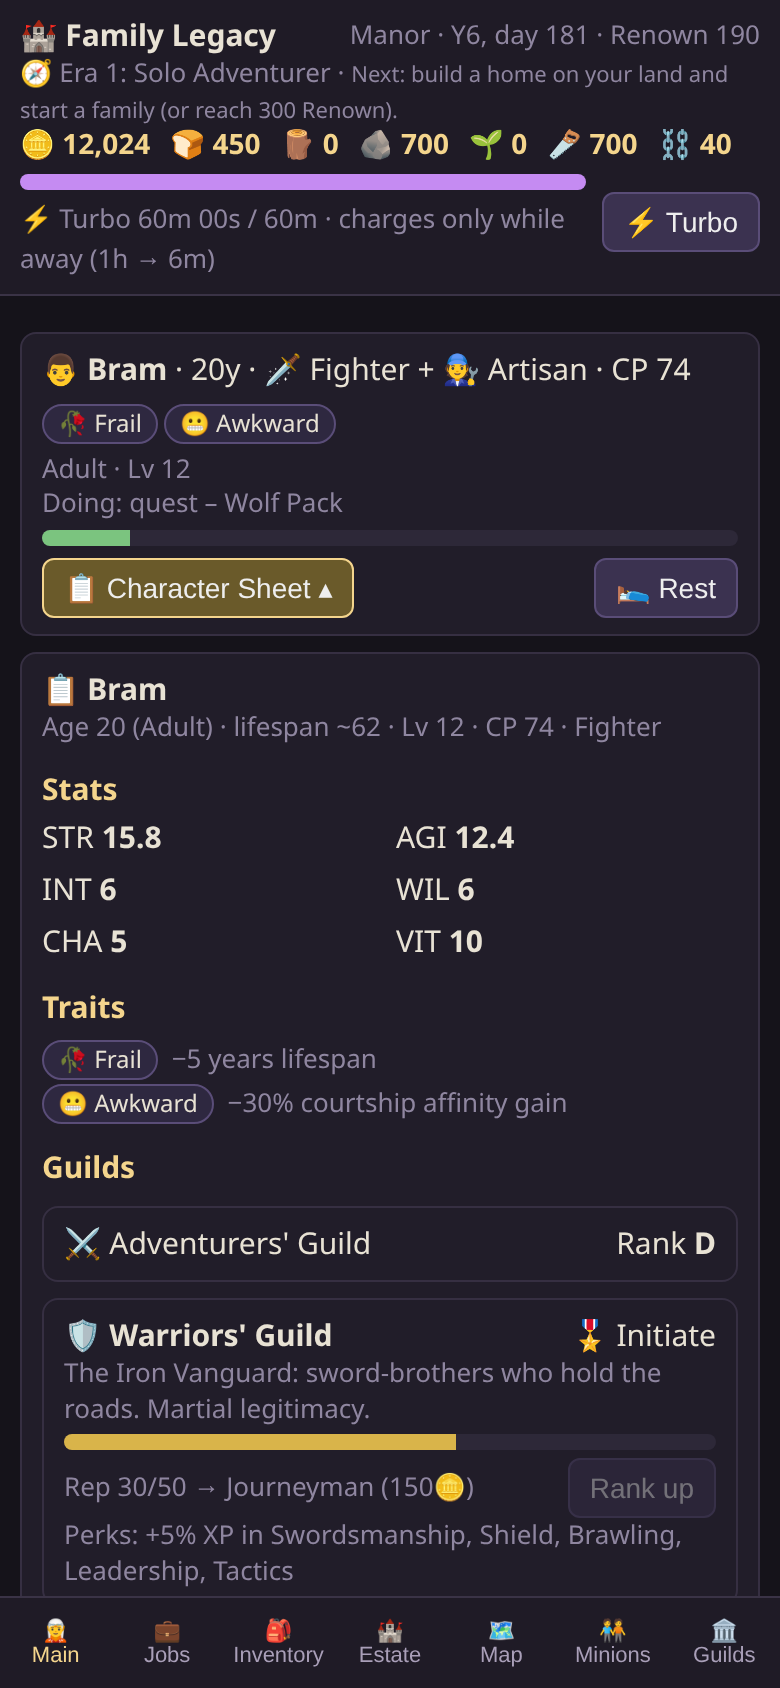
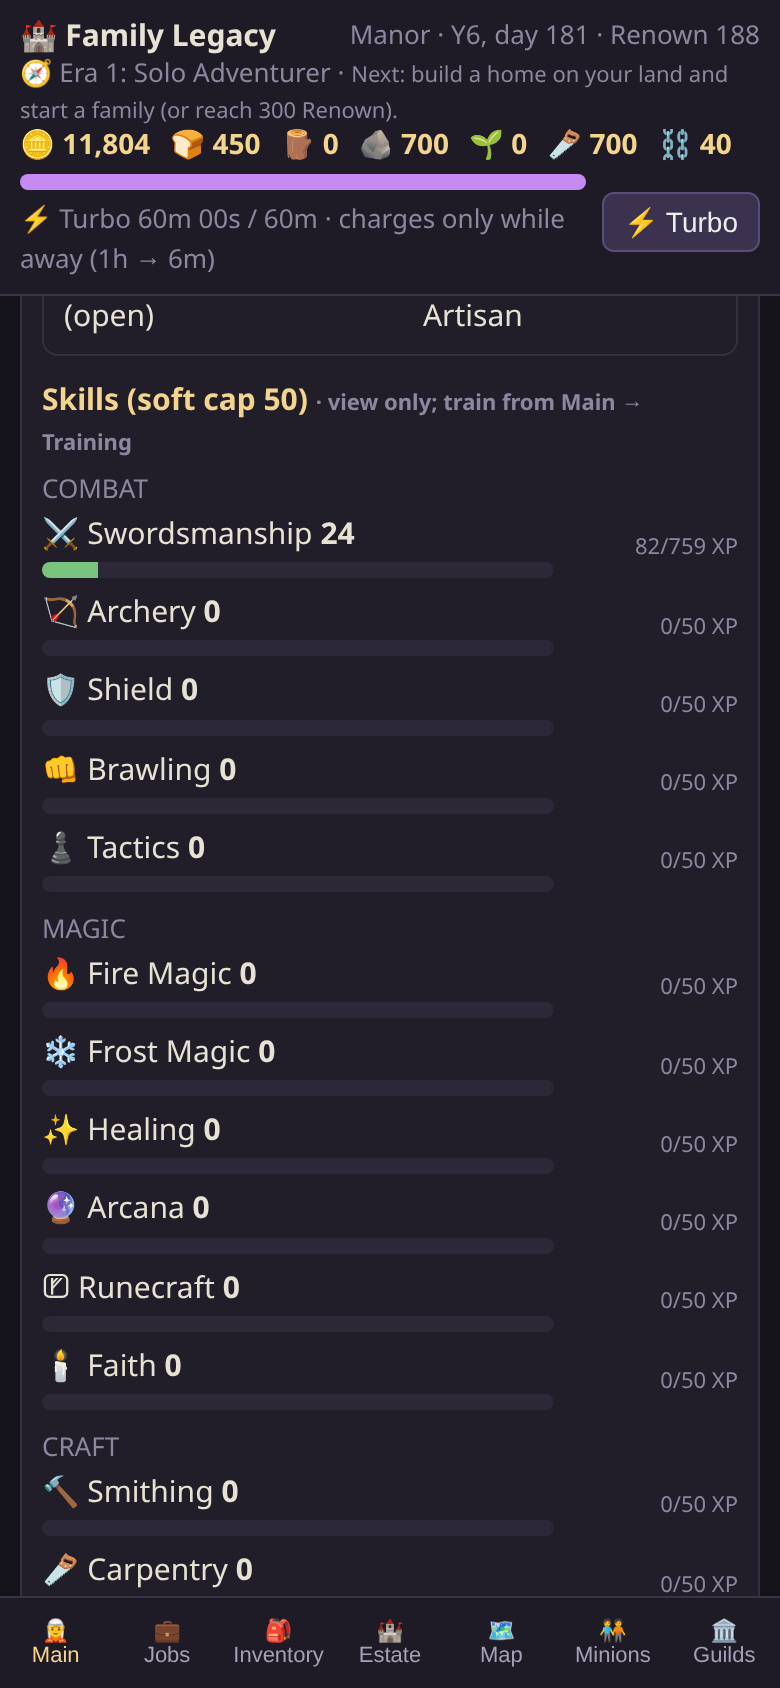
Update Family Legacy with training and tiered activities.
Replace the static game with the latest build, including the view-only character sheet, the Training section, and tiered activities, and keep the existing Pages workflow.

diff --git a/js/main.js b/js/main.js
@@ -28,7 +28,7 @@ function hero(){ const m=E.active(s); if(!m) return ''; const a=m.action;
  ${a&&a.type==='quest'?`<div class="bar"><i style="width:${a.progress/D.quests.find(q=>q.id===a.target).days*100}%"></i></div>`:''}
  <div class="row" style="margin-top:6px"><button class="b ${sheetOpen?'sel':''}" data-a="sheet">📋 Character Sheet ${sheetOpen?'▴':'▾'}</button><button class="b" data-a="rest">🛌 Rest</button></div></div>`;
  if(sheetOpen) h+=sheet(m);
- h+=activities(m);
+ h+=trainingv(m)+activities(m);
  const evo=D.classes.filter(c=>(c.from===m.cls&&!c.profession)||(m.prof&&c.from===m.prof&&c.profession));
  if(evo.length) h+=`<h3>Evolution</h3>`+evo.map(c=>`<div class="card row"><span>${c.icon} ${c.name}<br><span class="muted">${Object.entries(c.req).map(([k,v])=>`${sk(k).name} ${m.skills[k].lvl}/${v}`).join(' · ')}${c.guild?` · ${E.guildDef(c.guild).icon} ${E.rankName(c.guildRank)} of ${E.guildDef(c.guild).name}`:''}${c.advRank!=null?` · Adventurers' Rank ${E.advRankName(c.advRank)}`:''}${c.crafterRank!=null?` · Crafters' ${E.rankName(c.crafterRank)}`:''}${c.profession?' · profession':''} · ${c.cost}🪙</span></span><button class="b" data-a="evolve" data-v="${c.id}" ${E.canEvolve(s,m,c)?'':'disabled'}>Evolve</button></div>`).join('');
  return h; }
@@ -36,15 +36,18 @@ function sheet(m){ const a=m.action; let h=`<div class="card"><b>📋 ${m.name}<
  <h3>Stats</h3><div class="grid">${E.STATS.map(k=>`<span>${k} <b>${E.statVal(m,k)}</b></span>`).join('')}</div>
  <h3>Traits</h3>${m.traits.map(t=>{const d=E.traitDef(t);return `<div><span class="tb">${d.icon} ${d.name}</span> <span class="muted">${d.desc}</span></div>`}).join('')}
  <h3>Guilds</h3>${guildCard(m)}
- <h3>Skills & Training (soft cap ${E.softCap(m)})</h3>`;
+ <h3>Skills (soft cap ${E.softCap(m)}) <span class="muted" style="font-size:11px">· view only; train from Main → Training</span></h3>`;
  for(const fam of [...new Set(D.skills.map(x=>x.family))]){ h+=`<div class="muted" style="margin-top:6px">${fam.toUpperCase()}</div>`;
   for(const x of D.skills.filter(y=>y.family===fam)){ const v=m.skills[x.id]; const on=a&&a.type==='train'&&a.target===x.id; const iss=E.trainIssue(m,x.id,s);
-   h+=`<div class="row" style="margin:3px 0"><span style="flex:1">${x.icon} ${x.name} <b>${v.lvl}</b><div class="bar"><i style="width:${v.xp/E.xpNeed(v.lvl)*100}%"></i></div></span><button class="b ${on?'sel':''}" data-a="train" data-v="${x.id}" ${iss?'disabled':''}>${iss?LOCK[iss]:'Train'}</button></div>`; } }
+   h+=`<div class="row" style="margin:3px 0"><span style="flex:1">${x.icon} ${x.name} <b>${v.lvl}</b><div class="bar"><i style="width:${v.xp/E.xpNeed(v.lvl)*100}%"></i></div></span><span class="muted" style="font-size:11px;min-width:84px;text-align:right">${Math.floor(v.xp)}/${Math.round(E.xpNeed(v.lvl))} XP${on?' · ⏳':''}</span></div>`; } }
  return h+`</div>`; }
+function trainingv(m){ const a=m.action; const rows=D.skills.filter(x=>!E.trainIssue(m,x.id,s)||(a&&a.type==='train'&&a.target===x.id)).map(x=>{ const v=m.skills[x.id], on=a&&a.type==='train'&&a.target===x.id;
+  return `<div class="card row" style="padding:6px 8px;margin:4px 0"><span>${x.icon} ${x.name} <b>${v.lvl}</b></span><button class="b ${on?'sel':''}" data-a="train" data-v="${x.id}">${on?'Training':'Train'}</button></div>`; }).join('');
+ return `<h3>🏋 Training</h3><div class="muted" style="font-size:12px">Options change with age, guilds, estate and quest unlocks.</div>`+(rows||'<div class="muted">Nothing to train yet.</div>'); }
 function activities(m){ const a=m.action; const rows=D.activities.map(ac=>{ const ok=E.activityOk(s,m,ac); const age=E.ageY(m); if(ac.maxAge&&age>ac.maxAge) return '';
-  const why=age<ac.minAge?`age ${ac.minAge}+`:ac.unlock?.quest?`complete “${D.quests.find(q=>q.id===ac.unlock.quest).name}”`:ac.unlock?.building?`build ${D.buildings.find(b=>b.id===ac.unlock.building).name}`:'';
+  const why=age<ac.minAge?`age ${ac.minAge}+`:ac.unlock?.guild?`${(E.guildDef(ac.unlock.guild)||{}).name} rank ${(ac.unlock.rank||0)+1}`:ac.unlock?.quest?`complete “${D.quests.find(q=>q.id===ac.unlock.quest).name}”`:ac.unlock?.building?`build ${D.buildings.find(b=>b.id===ac.unlock.building).name}`:'';
   const on=a&&a.type==='activity'&&a.target===ac.id;
-  return `<div class="card row" style="padding:6px 8px;margin:4px 0"><span>${ac.icon} ${ac.name}<br><span class="muted">${Object.keys(ac.stats).join('/')} · ${ac.skills.map(k=>sk(k).name).join(', ')}${ok?'':' · 🔒 '+why}</span></span><button class="b ${on?'sel':''}" data-a="activity" data-v="${ac.id}" ${ok?'':'disabled'}>Do</button></div>`; }).join('');
+  return `<div class="card row" style="padding:6px 8px;margin:4px 0"><span>${ac.icon} ${ac.name}<br><span class="muted"><b>${({basic:'Basic',advanced:'Advanced',master:'Master'})[ac.tier]||''}</b> · ${Object.entries(ac.stats).map(([k,v])=>`+${k} ${v}/d`).join(', ')} · ${ac.skills.map(k=>'+'+sk(k).name).join(', ')}${ok?'':' · 🔒 '+why}</span></span><button class="b ${on?'sel':''}" data-a="activity" data-v="${ac.id}" ${ok?'':'disabled'}>Do</button></div>`; }).join('');
  return `<h3>🎯 Activities</h3>`+rows; }
 function craftv(m){ const a=m.action; const pf=m.prof&&cl(m.prof); let h=`<h3>🔨 Crafting ${pf?`<span class="muted">· ${pf.icon} ${pf.name}</span>`:''}</h3><div class="muted">Needs stations in your buildings and materials. Quality (Crude→Masterwork) comes from skill, stations, synergies and profession.</div>`;
  for(const rc of D.crafting.recipes){ const iss=E.recipeIssue(s,m,rc), on=a&&a.type==='craft'&&a.target===rc.id; const sc=E.qualityScore(s,m,rc);

diff --git a/js/engine.js b/js/engine.js
@@ -361,7 +361,7 @@ export function trainIssue(m,skillId,s){ const sk=D.skills.find(x=>x.id===skillI
 export function canTrain(m,skillId,s,ignoreAge){ const i=trainIssue(m,skillId,s); return !i||(ignoreAge&&i.startsWith('age')); }
 export const jobOk=(m,j)=>ageY(m)>=j.minAge;
 export function activityOk(s,m,ac){ const a=ageY(m); if(a<ac.minAge||(ac.maxAge&&a>ac.maxAge)) return false; const u=ac.unlock; if(!u) return true;
-  if(u.quest) return (s.unlocks||[]).includes('activity:'+ac.id); if(u.building) return bl(s,u.building)>0; return true; }
+  if(u.guild){ const g=memberGuild(m,u.guild); return !!g&&(g.rank||0)>=(u.rank||0); } if(u.quest) return (s.unlocks||[]).includes('activity:'+ac.id); if(u.building) return bl(s,u.building)>0; return true; }
 export function actionAllowed(s,m,a){ if(!a) return false; const t=a.type;
   if(t==='train') return canTrain(m,a.target,s); if(t==='job') return jobOk(m,D.jobs.find(j=>j.id===a.target)||{minAge:99});
   if(t==='activity'){ const ac=D.activities.find(x=>x.id===a.target); return !!ac&&activityOk(s,m,ac); }
@@ -446,3 +446,6 @@ export function unequipMinion(s,uid,slot){ const mi=s.minions.find(x=>x.uid===ui
 export const ERAS=[{n:1,name:'Solo Adventurer',icon:'🧭'},{n:2,name:'Established Family',icon:'🏡'},{n:3,name:'Ruling Power',icon:'👑'}];
 export function era(s){ const fam=living(s).length>1||s.members.some(m=>m.spouse); if(s.renown>=5000&&['Manor','Prosperous Estate'].includes(estateStage(s))) return ERAS[2]; if(established(s)&&fam||s.renown>=300) return ERAS[1]; return ERAS[0]; }
 export function nextEraHint(s){ const e=era(s).n; return e===1?'Next: build a home on your land and start a family (or reach 300 Renown).':e===2?'Next: 5,000 Renown and a Manor-tier estate (Era 3 systems coming in a later update).':'Era 3 systems (titles, vassals, taxes) are planned.'; }
+
+export const ACT_TIERS={basic:1,advanced:2,master:3};
+export const activityGains=ac=>({stats:Object.entries(ac.stats),skills:ac.skills});
